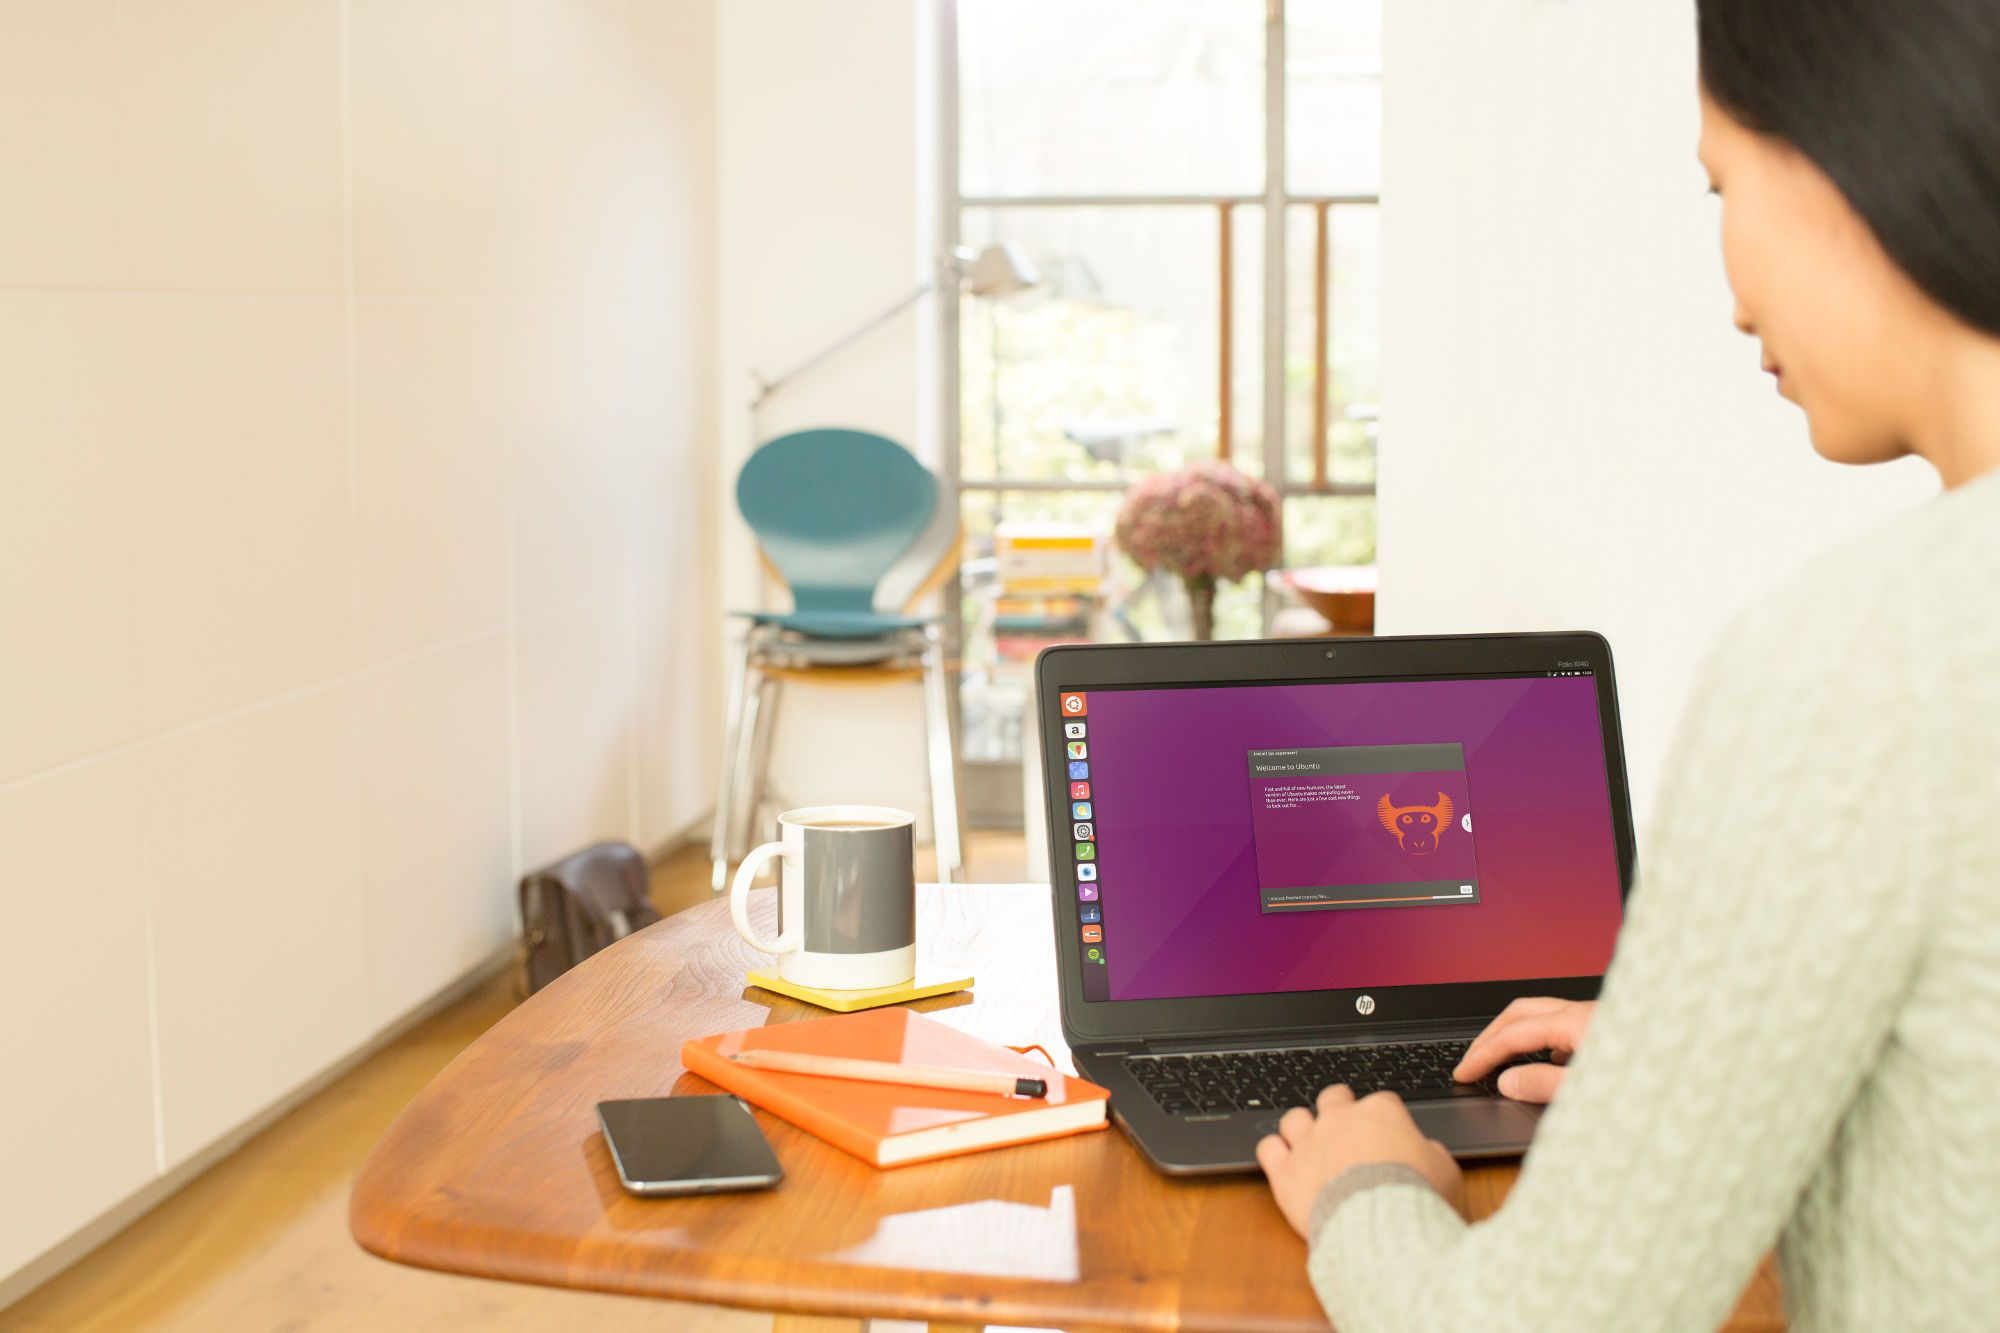
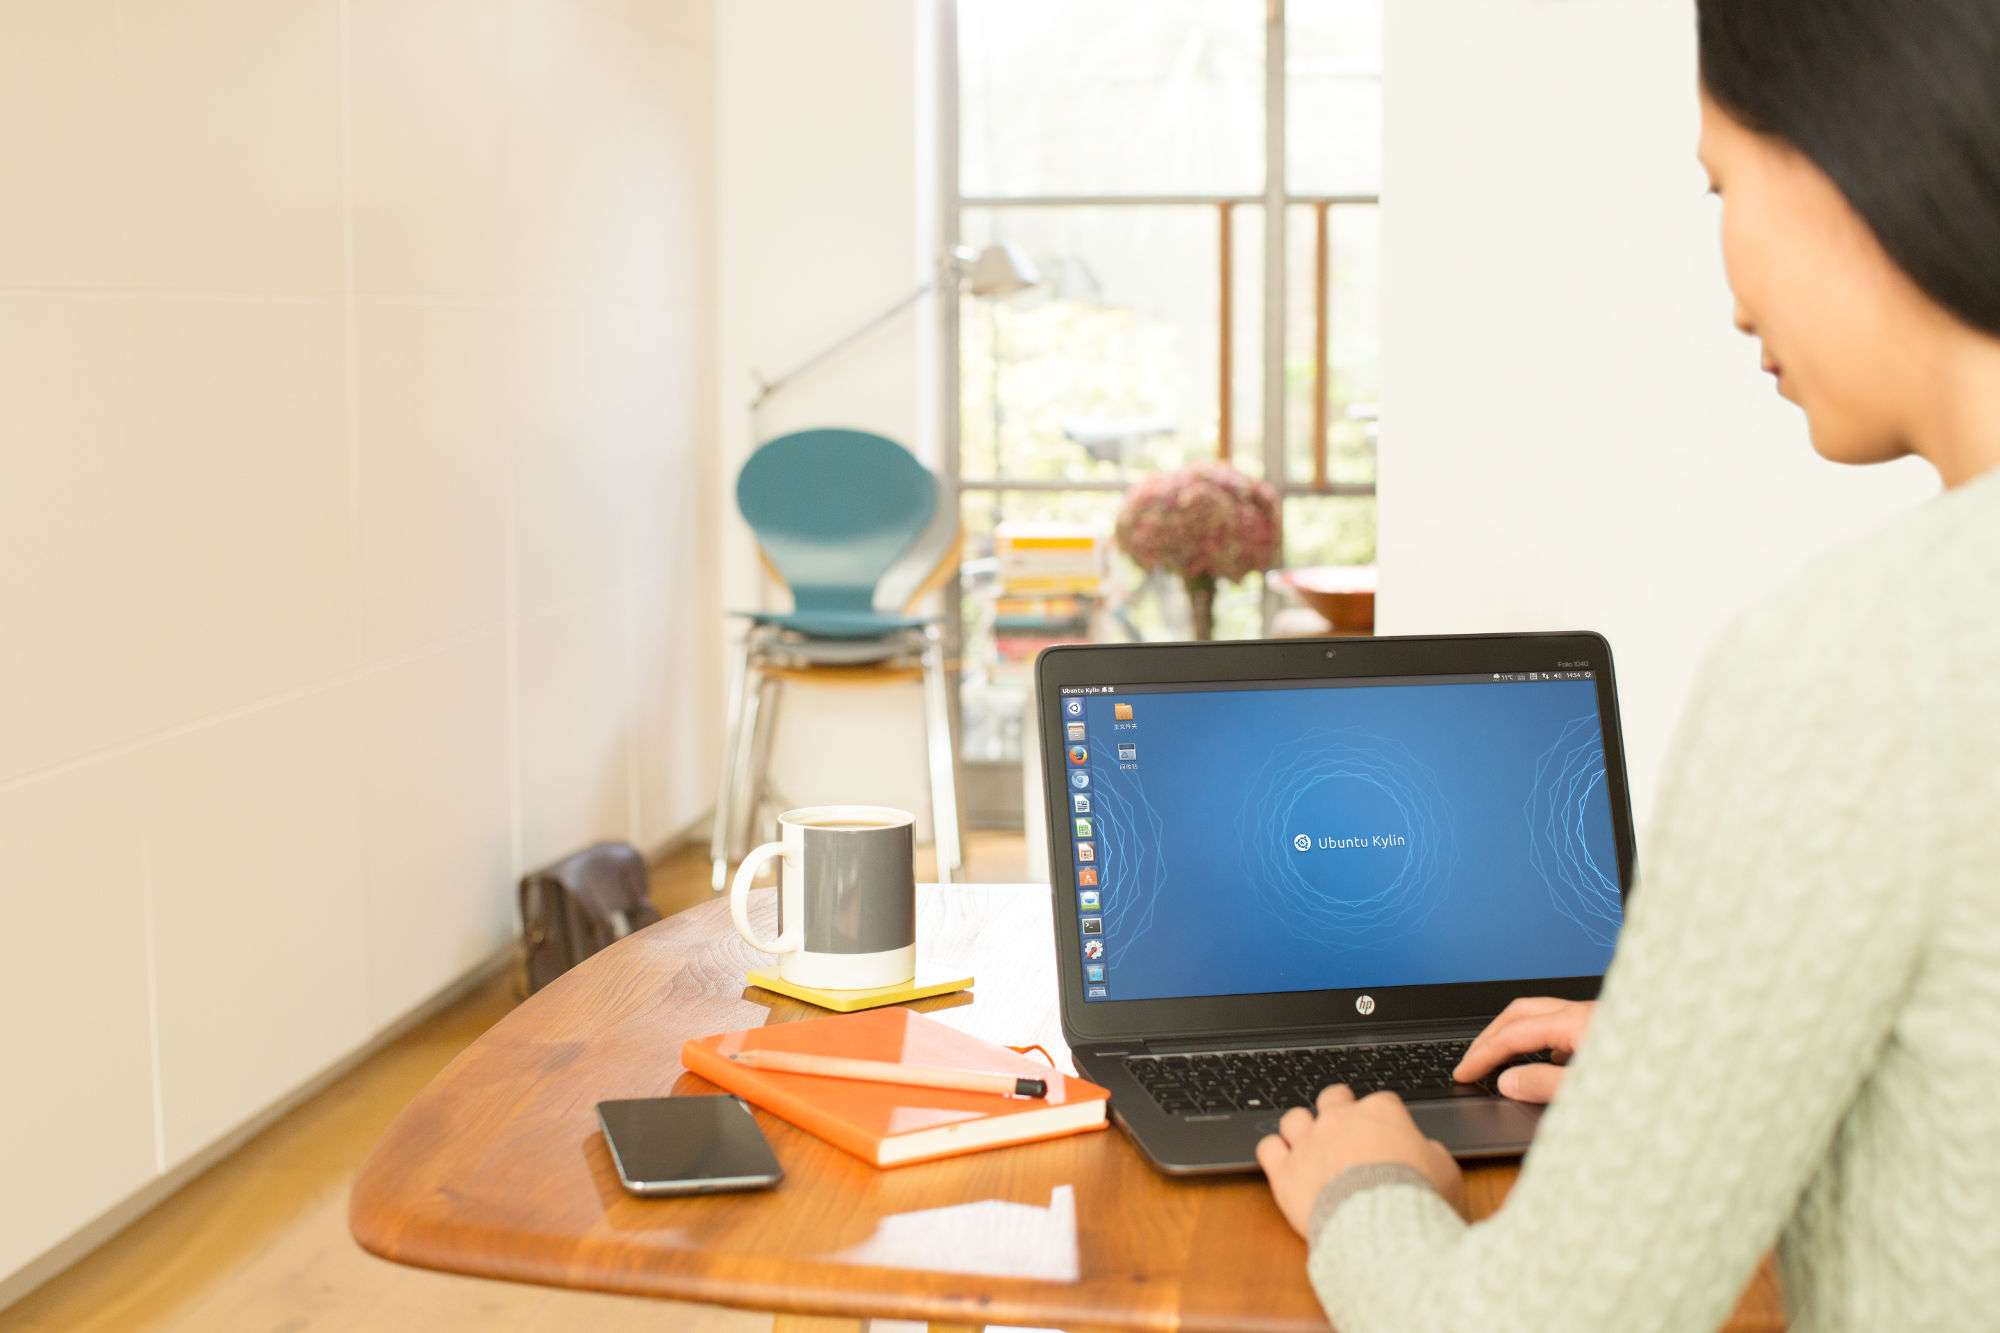
Update copy and homepage image

Changed region(s): [[0.527, 0.4921, 0.837, 0.7689]]

diff --git a/templates/takeovers/_footer_homepage.html b/templates/takeovers/_footer_homepage.html
@@ -4,7 +4,7 @@
 		<div class="four-col">
 			<a href="/phone">
 				<h2>更佳智能手机体验&nbsp;&rsaquo;</h2>
-				<p>Ubuntu 使所有人能更容易地找到和使用自己的移动内容&#12290;</p>
+				<p>Ubuntu打破传统布局，直接展示你最关注的</p>
 				<div class="text-center">
 					<img alt="" src="{{ STATIC_URL }}img/homepage/image-phone.png" />
 				</div>
@@ -14,19 +14,19 @@
 		<div class="four-col">
 			<a href="/cloud">
 				<h2>头号云服务平台&nbsp;&rsaquo;</h2>
-				<p>OpenStack Icehouse，还提供最好的工具和五年支持服务&#12290;</p>
+				<p>OpenStack Juno，还提供最好的工具和五年支持服务&#12290;</p>
 				<div class="text-center">
 					<img alt="" src="{{ STATIC_URL }}img/homepage/image-cloud.png" />
 				</div>
 			</a>
 		</div>
-{# ================ Meet Ubuntu Kylin ================ #}
+{# ================ Landscape free for 30 days ================ #}
 		<div class="four-col last-col">
-			<a href="/desktop">
-				<h2>Ubuntu Kylin&nbsp;&rsaquo;</h2>
-				<p>具有2TB内建云储存，Ubuntu Kylin是中国的免費个人电脑操作系统&#12290;</p>
+			<a href="https://landscape.canonical.com/">
+				<h2>Landscape free for 30 days&nbsp;&rsaquo;</h2>
+				<p>用于Ubuntu系统管理的最佳工具</p>
 				<div class="text-center">
-					<img alt="" src="{{ STATIC_URL }}img/homepage/image-laptop.png" />
+					<img alt="" src="{{ STATIC_URL }}img/homepage/screenshot-landscape-288-160.jpg" />
 				</div>
 			</a>
 		</div>

diff --git a/static/css/section/_homepage.scss b/static/css/section/_homepage.scss
@@ -54,6 +54,11 @@ body.homepage {
     img {
       margin-top: 20px;
     }
+
+    h2 {
+      font-size: 1.5em;
+      margin-bottom: 0.571em;
+    }
 	}
 
   .inner-wrapper .box li img { vertical-align: middle; }
